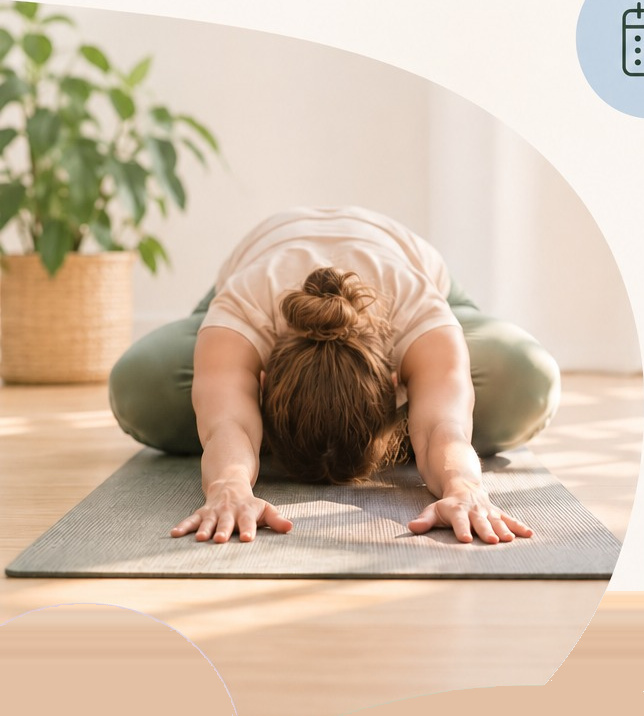
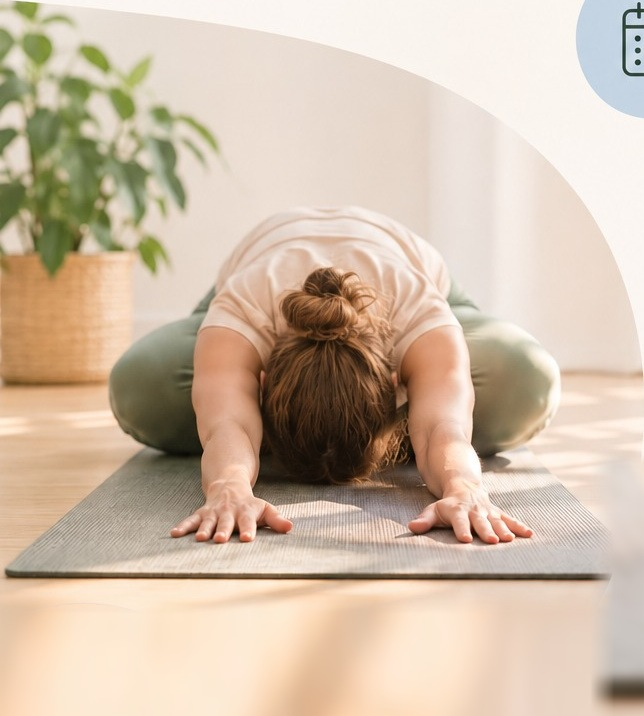
Clean default flyer photo and clear footer collisions

Changed region(s): [[0.528, 0.6453, 1.0, 1.0], [0.0, 0.8296, 0.4969, 1.0], [0.0, 0.8603, 0.0311, 0.8911]]

diff --git a/src/tools/flyer/model.ts b/src/tools/flyer/model.ts
@@ -57,7 +57,7 @@ const standard: FlyerLayout = {
   qr: [0.17, 0.843, 0.16, 0.114],
   qrLabel: [0.37, 0.85, 0.24, 0.05],
   signature: [0.56, 0.895, 0.41, 0.075],
-  signatureWithoutQr: [0.2, 0.895, 0.6, 0.075],
+  signatureWithoutQr: [0.2, 0.91, 0.6, 0.06],
   qrArrow: [0.49, 0.92, 0.14, 0.02],
   band: 0.81,
 };
@@ -76,7 +76,7 @@ const tall: FlyerLayout = {
   qrLabel: [0.43, 0.79, 0.4, 0.055],
   signature: [0.2, 0.9, 0.6, 0.07],
   signatureWithoutQr: [0.2, 0.855, 0.6, 0.09],
-  qrArrow: [0.51, 0.832, 0.14, 0.003],
+  qrArrow: [0.525, 0.832, 0.14, 0.003],
   band: 0.74,
 };
 const compact: FlyerLayout = {
@@ -91,7 +91,7 @@ const compact: FlyerLayout = {
   qr: [0.17, 0.835, 0.15, 0.13],
   qrLabel: [0.36, 0.84, 0.23, 0.065],
   signature: [0.56, 0.895, 0.41, 0.075],
-  signatureWithoutQr: [0.2, 0.895, 0.6, 0.075],
+  signatureWithoutQr: [0.2, 0.91, 0.6, 0.06],
   band: 0.8,
 };
 const printFormat = (
